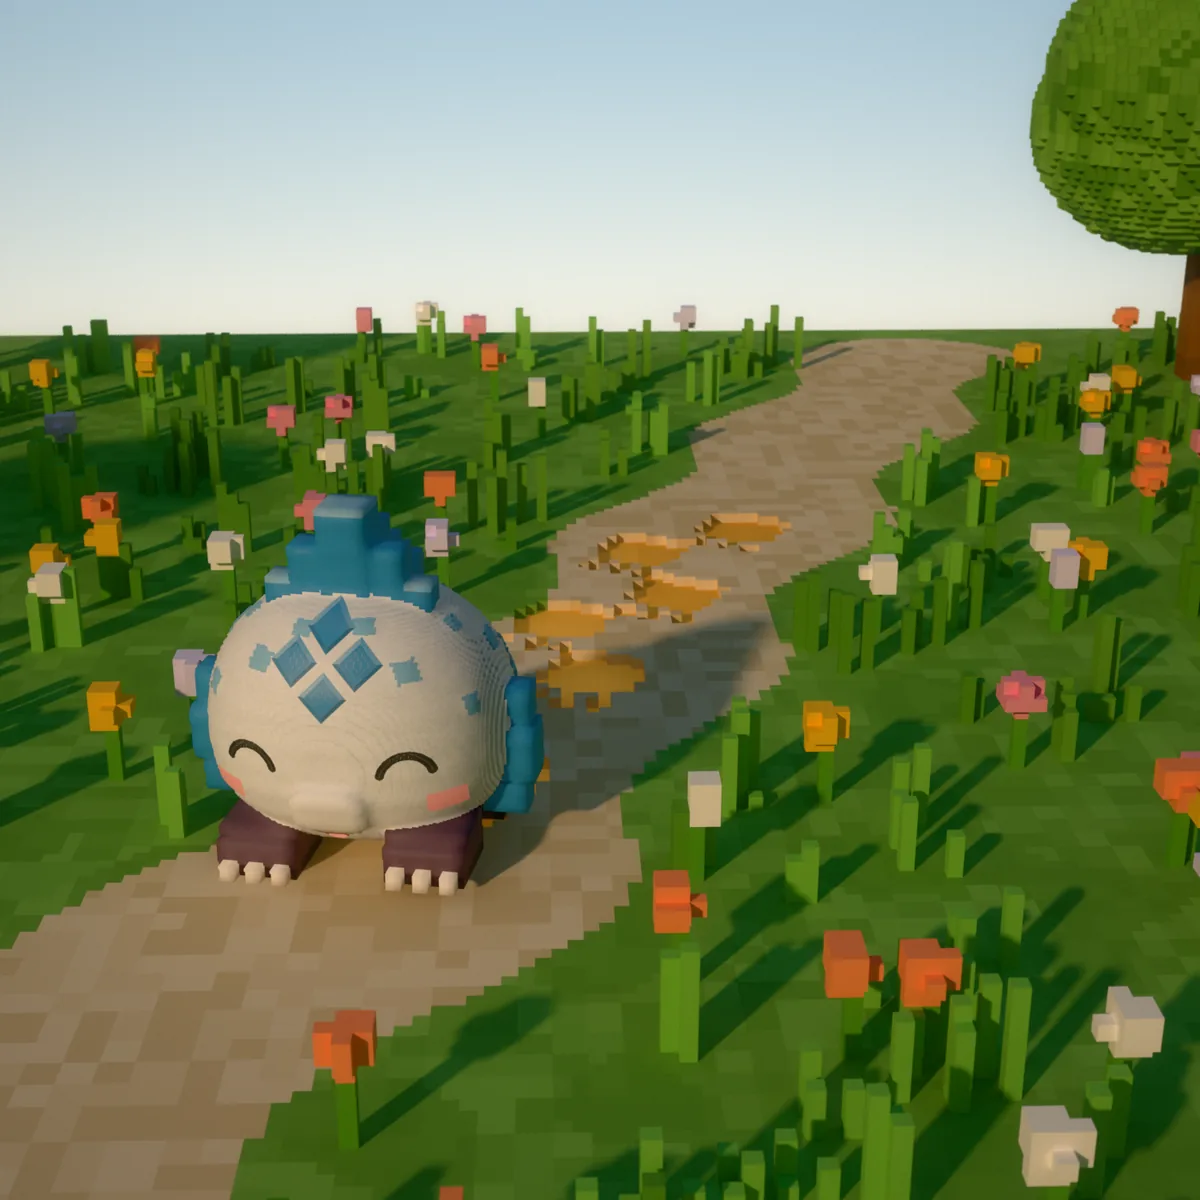
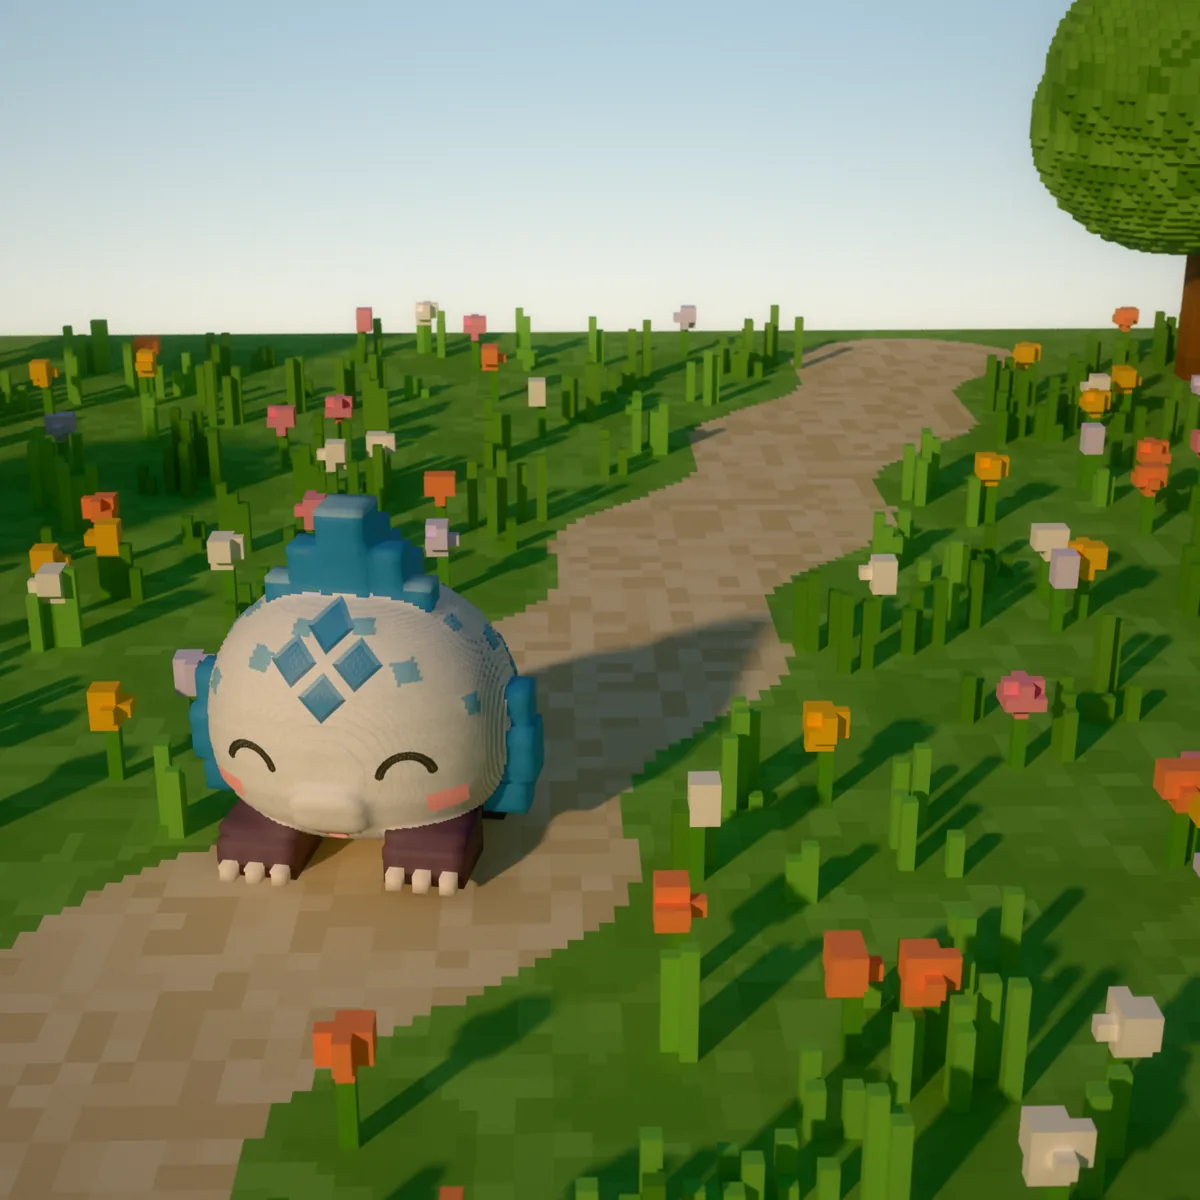
Steps plate re-rendered without baked prints, Mochi's matte cut from it (steps_mochi), print anchors in perspective
Claude-Session: https://claude.ai/code/session_01VWe3SoshPkYxMyQGojiWK8

Changed region(s): [[0.4317, 0.4317, 0.6783, 0.6167], [0.4317, 0.6167, 0.4625, 0.6475]]

diff --git a/flutter/tool/shorts/onboarding_record_test.dart b/flutter/tool/shorts/onboarding_record_test.dart
@@ -305,7 +305,7 @@ class _Rec {
   Future<void> _preload() async {
     const palettes = ['amber', 'forest', 'coral', 'ocean', 'amethyst', 'obsidian'];
     final names = <String>[
-      'lumen_print', 'map_lit', 'map_faded', 'map_hollow', 'village_dusk', 'glasshouse_night', 'pip', 'pip_gold', 'steps', 'nest', 'nest_empty',
+      'lumen_print', 'map_lit', 'map_faded', 'map_hollow', 'village_dusk', 'glasshouse_night', 'pip', 'pip_gold', 'steps', 'steps_mochi', 'nest', 'nest_empty',
       for (final p in palettes) ...['nest_egg_$p', 'egg_${p}_0'],
       for (var k = 1; k < 4; k++) 'egg_${_palette}_$k',
       'egg_shards_$_palette',
